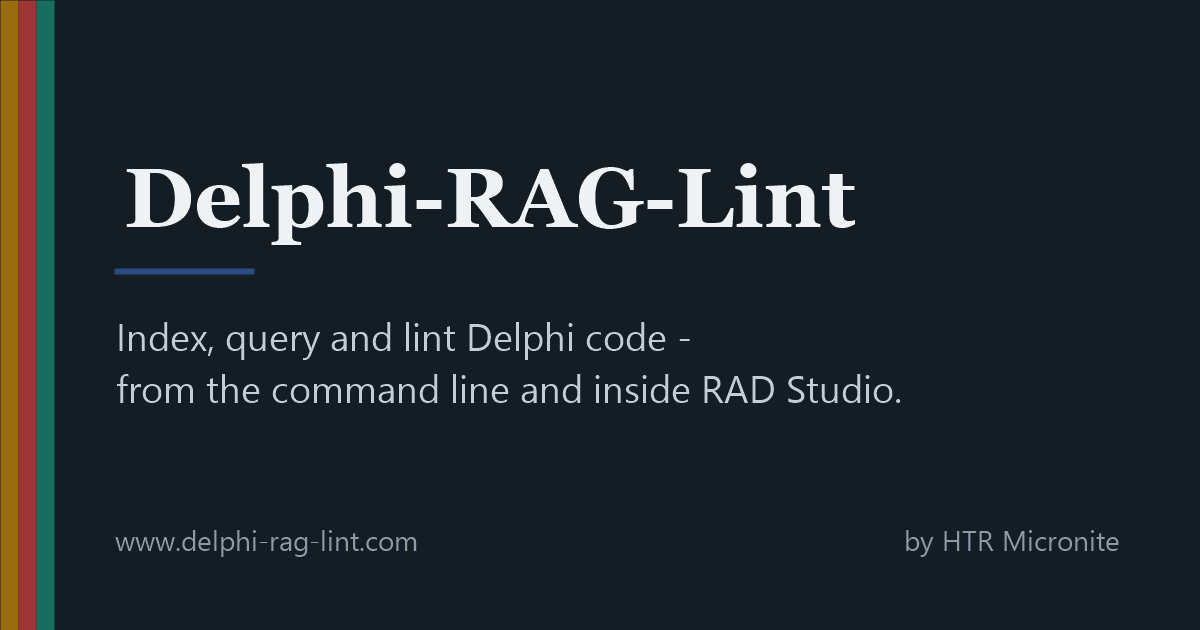
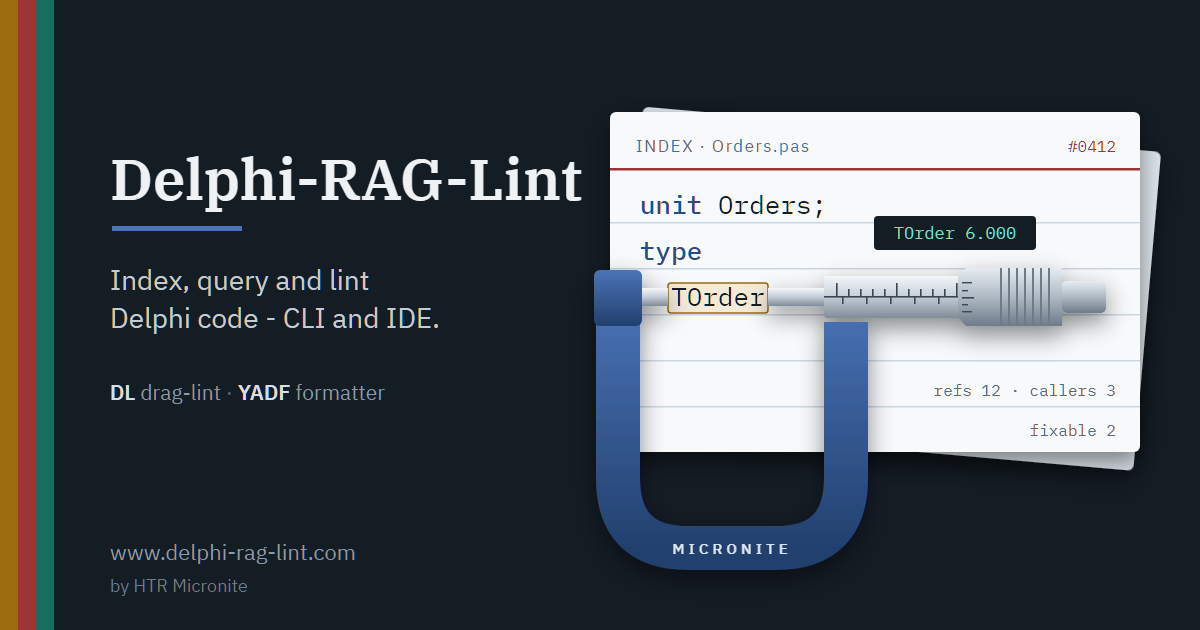
www: new default share card (micrometer + index card) and one menu entry per product
- assets/share/default.png: re-drawn card (Delphi token measured by a Micronite micrometer
  on an index card), source in templates/share-card.html (render with headless Edge).
- Menu: "Products" replaced by one entry per product (site.json "menu" label, falls back to
  name): Delphi-RAG-Lint, YADF. /products/ overview page still built.
- test_build: asserts the new menu.

diff --git a/WWW/templates/share-card.html b/WWW/templates/share-card.html
@@ -1,0 +1,126 @@
+<!-- Source of assets/share/default.png (the site-wide share card, 1200x630).
+     Render: msedge --headless --hide-scrollbars --window-size=1200,630 --virtual-time-budget=3000
+             --screenshot=<out.png> file:///<this file>
+     Colours and fonts are the site's (assets/style.css). -->
+<style>
+@font-face{font-family:"Plex Serif";src:url('../assets/fonts/IBMPlexSerif-SemiBold.woff2') format('woff2')}
+@font-face{font-family:"Plex Sans";src:url('../assets/fonts/IBMPlexSans-Regular.woff2') format('woff2')}
+@font-face{font-family:"Plex Sans";font-weight:600;src:url('../assets/fonts/IBMPlexSans-SemiBold.woff2') format('woff2')}
+@font-face{font-family:"Plex Mono";src:url('../assets/fonts/IBMPlexMono-Regular.woff2') format('woff2')}
+@font-face{font-family:"Plex Mono";font-weight:500;src:url('../assets/fonts/IBMPlexMono-Medium.woff2') format('woff2')}
+html,body{margin:0;padding:0;background:#141C24}
+svg{display:block}
+</style>
+<svg xmlns="http://www.w3.org/2000/svg" width="1200" height="630" viewBox="0 0 1200 630">
+  <defs>
+    <linearGradient id="steel" x1="0" y1="0" x2="0" y2="1">
+      <stop offset="0" stop-color="#F4F7FA"/><stop offset=".45" stop-color="#C9D2DB"/><stop offset="1" stop-color="#7F8C99"/>
+    </linearGradient>
+    <linearGradient id="frame" x1="0" y1="0" x2="0" y2="1">
+      <stop offset="0" stop-color="#4A74B8"/><stop offset="1" stop-color="#22406E"/>
+    </linearGradient>
+    <linearGradient id="thimble" x1="0" y1="0" x2="0" y2="1">
+      <stop offset="0" stop-color="#E6ECF1"/><stop offset=".5" stop-color="#AEB9C4"/><stop offset="1" stop-color="#6E7B88"/>
+    </linearGradient>
+    <filter id="shadow" x="-10%" y="-10%" width="130%" height="140%">
+      <feDropShadow dx="0" dy="10" stdDeviation="12" flood-color="#000" flood-opacity=".45"/>
+    </filter>
+  </defs>
+
+  <rect width="1200" height="630" fill="#141C24"/>
+  <!-- brand stripe: lexer / AST / tree-sitter -->
+  <rect x="0" y="0" width="18" height="630" fill="#9A6B0F"/>
+  <rect x="18" y="0" width="18" height="630" fill="#9E3535"/>
+  <rect x="36" y="0" width="18" height="630" fill="#176E5F"/>
+
+  <!-- left: words -->
+  <text x="110" y="200" font-family="Plex Serif" font-size="58" fill="#EFF2F5">Delphi-RAG-Lint</text>
+  <rect x="112" y="226" width="130" height="5" fill="#4A74B8"/>
+  <text font-family="Plex Sans" font-size="28" fill="#C3CCD5">
+    <tspan x="110" y="290">Index, query and lint</tspan>
+    <tspan x="110" y="328">Delphi code - CLI and IDE.</tspan>
+  </text>
+  <text x="110" y="400" font-family="Plex Sans" font-size="21" fill="#8C99A6">
+    <tspan font-weight="600" fill="#D8DFE6">DL</tspan> drag-lint  <tspan fill="#5C6976">&#183;</tspan>  <tspan font-weight="600" fill="#D8DFE6">YADF</tspan> formatter
+  </text>
+  <text x="110" y="560" font-family="Plex Sans" font-size="22" fill="#8C99A6">www.delphi-rag-lint.com</text>
+  <text x="110" y="592" font-family="Plex Sans" font-size="18" fill="#6E7B88">by HTR Micronite</text>
+
+  <!-- back card -->
+  <g transform="rotate(5 880 290)" filter="url(#shadow)">
+    <rect x="628" y="128" width="520" height="320" rx="6" fill="#DCE3EA"/>
+  </g>
+
+  <!-- front index card -->
+  <g filter="url(#shadow)">
+    <rect x="610" y="112" width="530" height="340" rx="6" fill="#F7F9FB"/>
+  </g>
+  <text x="636" y="152" font-family="Plex Sans" font-size="17" letter-spacing="1.5" fill="#5C6976">INDEX  &#183;  Orders.pas</text>
+  <text x="1116" y="152" text-anchor="end" font-family="Plex Mono" font-size="16" fill="#9E3535">#0412</text>
+  <rect x="610" y="168" width="530" height="2.5" fill="#9E3535"/>
+  <g fill="#C9D6E3">
+    <rect x="610" y="222" width="530" height="1.5"/>
+    <rect x="610" y="268" width="530" height="1.5"/>
+    <rect x="610" y="314" width="530" height="1.5"/>
+    <rect x="610" y="360" width="530" height="1.5"/>
+    <rect x="610" y="406" width="530" height="1.5"/>
+  </g>
+  <!-- the measured token -->
+  <rect x="668" y="283" width="100" height="30" rx="3" fill="#F3EADA" stroke="#9A6B0F" stroke-width="1.5"/>
+  <g font-family="Plex Mono" font-size="26" fill="#141C24">
+    <text x="640" y="214"><tspan fill="#2B4C82" font-weight="500">unit</tspan> Orders;</text>
+    <text x="640" y="260" fill="#2B4C82" font-weight="500">type</text>
+    <text x="640" y="306" xml:space="preserve">  TOrder = <tspan fill="#2B4C82" font-weight="500">class</tspan>(TEntity)</text>
+  </g>
+  <text x="1116" y="396" text-anchor="end" font-family="Plex Mono" font-size="16" fill="#5C6976">refs 12  &#183;  callers 3</text>
+  <text x="1116" y="436" text-anchor="end" font-family="Plex Mono" font-size="16" fill="#5C6976">fixable 2</text>
+
+  <!-- micrometer -->
+  <g filter="url(#shadow)">
+    <!-- C frame -->
+    <path d="M 618 296 L 618 478 Q 618 548 688 548 L 776 548 Q 846 548 846 478 L 846 322"
+          fill="none" stroke="url(#frame)" stroke-width="44" stroke-linejoin="round"/>
+    <!-- anvil block + anvil -->
+    <rect x="594" y="270" width="48" height="56" rx="6" fill="url(#frame)"/>
+    <rect x="642" y="288" width="26" height="18" fill="url(#steel)"/>
+    <!-- spindle -->
+    <rect x="768" y="288" width="60" height="18" fill="url(#steel)"/>
+    <!-- sleeve -->
+    <rect x="824" y="276" width="150" height="42" rx="3" fill="url(#steel)"/>
+    <rect x="824" y="296" width="150" height="1.6" fill="#3A4753"/>
+    <g fill="#3A4753">
+      <rect x="836" y="283" width="1.6" height="13"/><rect x="848" y="289" width="1.6" height="7"/>
+      <rect x="860" y="289" width="1.6" height="7"/><rect x="872" y="289" width="1.6" height="7"/>
+      <rect x="884" y="289" width="1.6" height="7"/><rect x="896" y="283" width="1.6" height="13"/>
+      <rect x="908" y="289" width="1.6" height="7"/><rect x="920" y="289" width="1.6" height="7"/>
+      <rect x="932" y="289" width="1.6" height="7"/><rect x="944" y="289" width="1.6" height="7"/>
+      <rect x="956" y="283" width="1.6" height="13"/>
+      <rect x="842" y="297" width="1.6" height="7"/><rect x="866" y="297" width="1.6" height="7"/>
+      <rect x="890" y="297" width="1.6" height="7"/><rect x="914" y="297" width="1.6" height="7"/>
+      <rect x="938" y="297" width="1.6" height="7"/><rect x="962" y="297" width="1.6" height="7"/>
+    </g>
+    <!-- thimble -->
+    <path d="M 966 268 L 1062 268 L 1062 326 L 966 326 L 958 318 L 958 276 Z" fill="url(#thimble)"/>
+    <g fill="#3A4753">
+      <rect x="962" y="282" width="10" height="1.4"/><rect x="962" y="290" width="6" height="1.4"/>
+      <rect x="962" y="297" width="12" height="1.6"/><rect x="962" y="304" width="6" height="1.4"/>
+      <rect x="962" y="311" width="10" height="1.4"/>
+    </g>
+    <g fill="#6E7B88">
+      <rect x="1000" y="268" width="2" height="58"/><rect x="1008" y="268" width="2" height="58"/>
+      <rect x="1016" y="268" width="2" height="58"/><rect x="1024" y="268" width="2" height="58"/>
+      <rect x="1032" y="268" width="2" height="58"/><rect x="1040" y="268" width="2" height="58"/>
+      <rect x="1048" y="268" width="2" height="58"/>
+    </g>
+    <!-- ratchet -->
+    <rect x="1062" y="281" width="44" height="32" rx="5" fill="url(#thimble)"/>
+    <!-- engraving on the frame -->
+    <text x="732" y="554" text-anchor="middle" font-family="Plex Sans" font-weight="600" font-size="15" letter-spacing="4" fill="#DCE5F0">MICRONITE</text>
+  </g>
+
+  <!-- reading -->
+  <g font-family="Plex Mono" font-size="17">
+    <rect x="874" y="216" width="162" height="34" rx="4" fill="#141C24"/>
+    <text x="955" y="239" text-anchor="middle" fill="#7FE0C6">TOrder 6.000</text>
+  </g>
+</svg>
